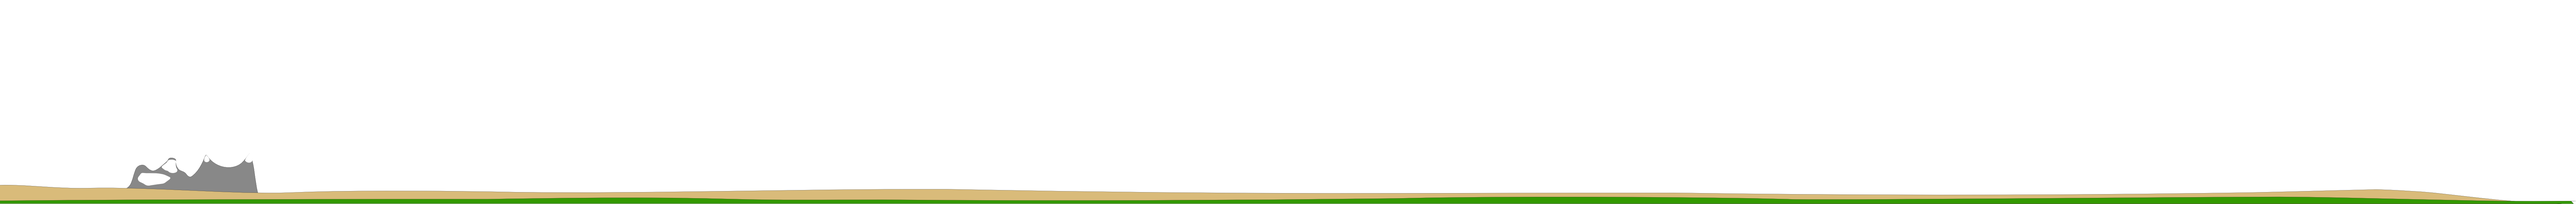
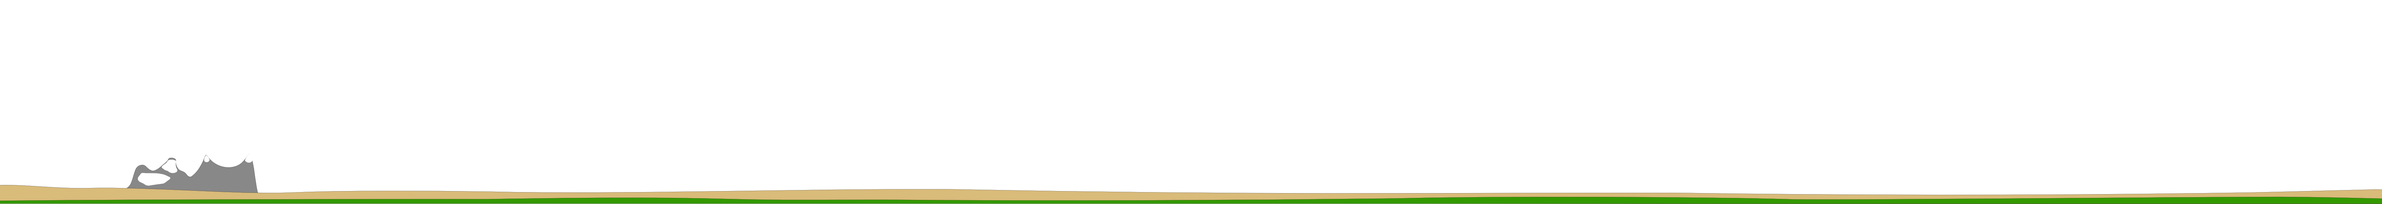
scrolling mostly working

Changed region(s): [[0.3426, 0.9, 1.0, 1.0], [0.0311, 0.78, 0.1557, 0.96], [0.1869, 0.93, 0.3426, 0.99]]

diff --git a/lib/balloon.rb b/lib/balloon.rb
@@ -1,35 +1,41 @@
-class Balloon < Chingu::BasicGameObject
-
-  attr_accessor :x, :y
+class Balloon < Chingu::GameObject
 
   trait :velocity
-  trait :simple_image, :image => 'ball.png'
+  trait :sprite, :image => lambda { draw_ball }
   
   include Chingu::Helpers::InputClient
 
   def initialize(opts = {})
     super(opts)
-    @x, @y = 0, 0
-  end
-  
-  def setup
-    super
-     self.input = { :holding_left => :left, :holding_right => :right }
+    keys = [ :left, :right, :up, :down ]
+    self.input = Hash[*keys.zip(keys).flatten]
   end
 
-  def update
-     super
-    # TODO - velocity = 0
-  end
-
+ 
   def left
-    @velocity_x = -10
+    @velocity_x = -2.5
   end
 
   def right
-    @velocity_x = 10
+    @velocity_x = 2.5
   end
 
+  def up
+    @velocity_y = 5    
+  end
+
+  def down
+    @velocity_y = -5    
+  end
+
+  private
   
+  def self.draw_ball
+    r = 40
+    image = TexPlay.create_image($window, r*2, r*2)
+    image.paint { circle(r,r,r, :color => :white, :fill => true) }
+    image
+  end
   
+
 end

diff --git a/lib/scroller.rb b/lib/scroller.rb
@@ -1,30 +1,10 @@
 #!/usr/bin/env ruby
 
 
-
-
-class Flying < Chingu::GameState
-
-  trait :viewport
-    
-  def initialize(options = {})
-    super
-    @baloon = Balloon.create( :x => 200, :y => 200)
-  end
-
-  def setup
-    self.input =  { :escape => :exit  }
-    self.viewport.lag = 0.1                           # 0 = no lag, 0.99 = a lot of lag.
-    self.viewport.game_area = [0, 0, 1000, 1000]    # Viewport
-  end
-  
-end
-
-
 class Game < Chingu::Window
   def initialize
-    super(800,600)
-    self.caption = "Chingu::Parallax example. Scroll with left/right arrows. Space for new parallax example!"
+    super(800,600, false)
+    self.caption = "Balloons prototype"
     switch_game_state(Flying)
   end
 end

diff --git a/lib/flying.rb b/lib/flying.rb
@@ -1,0 +1,28 @@
+class Flying < Chingu::GameState
+
+  trait :viewport, :x => 0, :y => 600,:game_area => [0,0,7000,600], :lag => 0.95 
+    
+  def initialize(options = {})
+    super
+    @balloon = Balloon.create( :x => 200, :y => 200)
+    @background = Background.create
+  end
+
+  def setup
+    self.input =  { :escape => :exit, :holding_d => :camera_right, :holding_a => :camera_left  }    
+  end
+
+  def camera_right
+    self.viewport.x_target += 50
+  end
+
+  def camera_left
+    self.viewport.x_target -= 50    
+  end
+
+  def update
+    self.viewport.center_around(@balloon)
+    super
+  end
+  
+end

diff --git a/lib/background.rb b/lib/background.rb
@@ -1,0 +1,13 @@
+class Background < Chingu::BasicGameObject
+  trait :sprite, :image => 'landscape.png'
+
+  def initialize(opts = {})
+
+    opts[:center_x] = 0
+    opts[:center_y] = 1.0
+    opts[:y] = 1200
+    super(opts)    
+  end
+
+
+end
